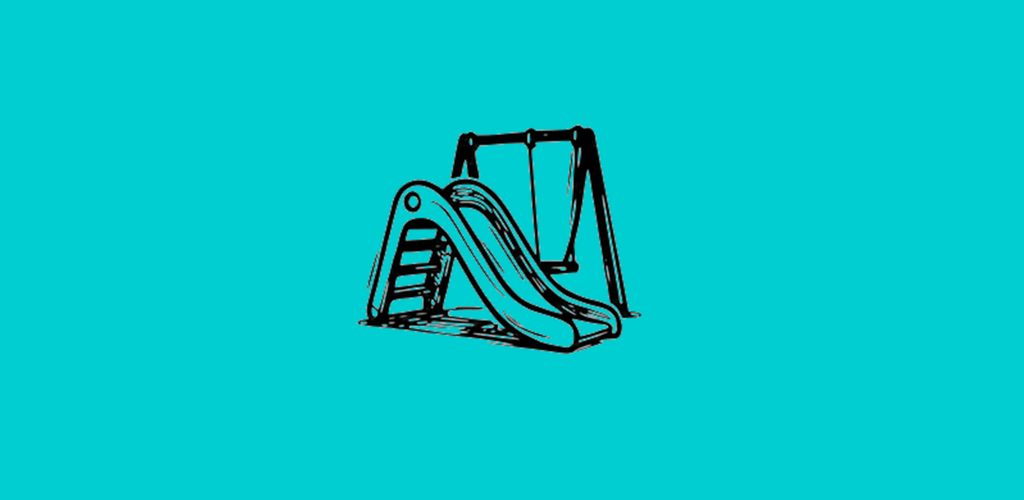
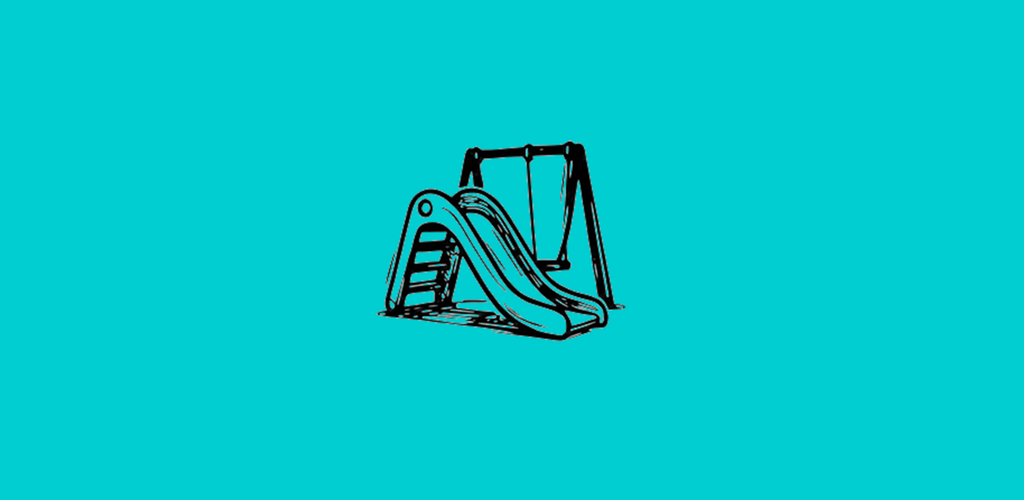
Udpating advertising screen and security

Changed region(s): [[0.3438, 0.24, 0.625, 0.72]]

diff --git a/server/scripts/syncWebsiteAppIcon.js b/server/scripts/syncWebsiteAppIcon.js
@@ -1,12 +1,14 @@
 /**
  * Syncs web brand assets under `website/public/` from:
- * 1) **`branding/android-launcher-res/drawable/*_1024.png`** (preferred) — composites foreground
- *    over background, then exports 512×512 — matches the shipped Android icon pack.
- * 2) Fallback: legacy `playSpotterLogo.png` / `playPlaceIcon.svg` / mipmap, etc.
+ * 1) `branding/android-launcher-res/drawable/*_1024.png` (preferred)
+ * 2) fallback legacy Play Spotter logo files
  *
- * After changing `branding/android-launcher-res/`, run `npm run apply:android-branding` (from `server/`).
+ * Outputs:
+ * - `playplace-app-icon.png`: square app-style icon for marketing surfaces
+ * - `play-spotter-favicon.png`: transparent foreground mark for favicon/nav usage
  *
- * Run: npm run sync:web-brand-icon  (from `server/`)
+ * After changing `branding/android-launcher-res/`, run:
+ *   npm run apply:android-branding
  */
 
 const fs = require('fs');
@@ -20,10 +22,8 @@ const RES = path.join(REPO_ROOT, 'compose-app', 'composeApp', 'src', 'androidMai
 const BRANDING_RES = path.join(REPO_ROOT, 'branding', 'android-launcher-res');
 const FG1024 = path.join(BRANDING_RES, 'drawable', 'ic_launcher_foreground_1024.png');
 const BG1024 = path.join(BRANDING_RES, 'drawable', 'ic_launcher_background_1024.png');
-/** Lucht company site `products.html` — must match composited `playplace-app-icon.png` (not a separate export). */
 const LUCHT_PLAY_PLACE_FINDER = path.join(REPO_ROOT, '..', '..', 'lucht-applications', 'icons', 'play-place-finder.png');
-/** Single brand plate for fallbacks; aligned with `values/colors.xml` ic_launcher_background (#00CED1). */
-const BG = { r: 0, g: 206, b: 209 }; // #00CED1
+const BG = { r: 0, g: 206, b: 209 };
 const TRIM_THRESHOLD = 14;
 const BRANDING_FOREGROUND_ZOOM = 3.2;
 
@@ -31,27 +31,50 @@ function hasBranding1024() {
   return fs.existsSync(FG1024) && fs.existsSync(BG1024);
 }
 
-/**
- * Pixels of the in-app / store icon (adaptive layers combined), at `size`×`size`.
- */
-async function buildBrandingAppIconPngBuffer(size) {
+function getBrandingCrop() {
   const cropSide = Math.max(64, Math.round(1024 / BRANDING_FOREGROUND_ZOOM));
   const left = Math.max(0, Math.round((1024 - cropSide) / 2));
   const top = Math.max(0, Math.round((1024 - cropSide) / 2));
+  return { left, top, cropSide };
+}
+
+async function buildBrandingAppIconPngBuffer(size) {
+  const { left, top, cropSide } = getBrandingCrop();
   const fgBuf = await sharp(FG1024)
     .ensureAlpha()
     .extract({ left, top, width: cropSide, height: cropSide })
     .resize(1024, 1024, { fit: 'fill' })
     .png()
     .toBuffer();
+
   const body = await sharp(BG1024)
     .ensureAlpha()
-    .composite([
-      { input: fgBuf, left: 0, top: 0 },
-    ])
+    .composite([{ input: fgBuf, left: 0, top: 0 }])
     .png()
     .toBuffer();
+
   return sharp(body).resize(size, size, { fit: 'fill' }).png().toBuffer();
+}
+
+async function buildBrandingForegroundMarkBuffer(size) {
+  const { left, top, cropSide } = getBrandingCrop();
+  const innerSize = Math.round(size * 0.82);
+  return sharp(FG1024)
+    .ensureAlpha()
+    .extract({ left, top, width: cropSide, height: cropSide })
+    .resize(innerSize, innerSize, {
+      fit: 'contain',
+      background: { r: 0, g: 0, b: 0, alpha: 0 },
+    })
+    .extend({
+      top: Math.floor((size - innerSize) / 2),
+      bottom: Math.ceil((size - innerSize) / 2),
+      left: Math.floor((size - innerSize) / 2),
+      right: Math.ceil((size - innerSize) / 2),
+      background: { r: 0, g: 0, b: 0, alpha: 0 },
+    })
+    .png()
+    .toBuffer();
 }
 
 function pickFullLogoPath() {
@@ -63,9 +86,11 @@ function pickFullLogoPath() {
     path.join(REPO_ROOT, 'playPlaceIcon.jpg'),
     path.join(RES, 'ic_launcher.png'),
   ];
-  for (const p of candidates) {
-    if (fs.existsSync(p)) return p;
+
+  for (const candidate of candidates) {
+    if (fs.existsSync(candidate)) return candidate;
   }
+
   return null;
 }
 
@@ -77,25 +102,25 @@ function pickFaviconSourcePath() {
     path.join(REPO_ROOT, 'playSpotterLogo.png'),
     path.join(RES, 'ic_launcher.png'),
   ];
-  for (const p of candidates) {
-    if (fs.existsSync(p)) return p;
+
+  for (const candidate of candidates) {
+    if (fs.existsSync(candidate)) return candidate;
   }
+
   return null;
 }
 
-/** Exported for `generateAppIcon.js` — strips uniform border so art can scale up on brand plate. */
 async function rasterAfterTrim(sourcePath) {
   try {
     const buf = await sharp(sourcePath).trim({ threshold: TRIM_THRESHOLD }).png().toBuffer();
-    const m = await sharp(buf).metadata();
-    if ((m.width || 0) < 12 || (m.height || 0) < 12) return sharp(sourcePath);
+    const meta = await sharp(buf).metadata();
+    if ((meta.width || 0) < 12 || (meta.height || 0) < 12) return sharp(sourcePath);
     return sharp(buf);
   } catch {
     return sharp(sourcePath);
   }
 }
 
-/** Full lockup: letterbox on brand teal (no crop of wordmark). */
 async function writeFullLockupSquare(outPath, sourcePath, size) {
   const isVectorSource = path.extname(sourcePath).toLowerCase() === '.svg';
   if (isVectorSource) {
@@ -106,15 +131,13 @@ async function writeFullLockupSquare(outPath, sourcePath, size) {
     await sharp(plate).composite([{ input: inner, gravity: 'centre' }]).png().toFile(outPath);
     return;
   }
+
   await sharp(sourcePath)
     .resize(size, size, { fit: 'contain', background: BG })
     .png()
     .toFile(outPath);
 }
 
-/**
- * Icon-only / favicon: trim flat border color, then scale art up on brand plate.
- */
 async function writeLauncherStyleSquare(outPath, sourcePath, size) {
   const isVectorSource = path.extname(sourcePath).toLowerCase() === '.svg';
   const zoomSide = Math.ceil(size * 1.14);
@@ -126,6 +149,7 @@ async function writeLauncherStyleSquare(outPath, sourcePath, size) {
       .toFile(outPath);
     return;
   }
+
   const body = await rasterAfterTrim(sourcePath);
   await body
     .resize(zoomSide, zoomSide, { fit: 'inside', background: BG })
@@ -141,7 +165,7 @@ function copyPlayIconToLuchtMarketing() {
     if (!fs.existsSync(dir)) return;
     fs.copyFileSync(OUT_FULL, LUCHT_PLAY_PLACE_FINDER);
     console.log(
-      'syncWebsiteAppIcon: copied composited icon →',
+      'syncWebsiteAppIcon: copied composited icon ->',
       path.relative(REPO_ROOT, LUCHT_PLAY_PLACE_FINDER),
     );
   } catch (err) {
@@ -153,16 +177,16 @@ async function main() {
   const size = 512;
 
   if (hasBranding1024()) {
-    const iconBuf = await buildBrandingAppIconPngBuffer(size);
-    await fs.promises.writeFile(OUT_FULL, iconBuf);
-    await fs.promises.writeFile(OUT_FAVICON, iconBuf);
+    const appIconBuf = await buildBrandingAppIconPngBuffer(size);
+    const markBuf = await buildBrandingForegroundMarkBuffer(size);
+    await fs.promises.writeFile(OUT_FULL, appIconBuf);
+    await fs.promises.writeFile(OUT_FAVICON, markBuf);
     console.log(
       'syncWebsiteAppIcon: wrote',
       path.relative(REPO_ROOT, OUT_FULL),
       'and',
       path.relative(REPO_ROOT, OUT_FAVICON),
-      'from',
-      'branding/android-launcher-res (1024×1024 layers)',
+      'from branding/android-launcher-res (adaptive icon + transparent mark)',
     );
     copyPlayIconToLuchtMarketing();
     return;
@@ -204,6 +228,7 @@ module.exports = {
   rasterAfterTrim,
   hasBranding1024,
   buildBrandingAppIconPngBuffer,
+  buildBrandingForegroundMarkBuffer,
   BRANDING_RES,
   FG1024,
   BG1024,

diff --git a/compose-app/composeApp/src/commonMain/kotlin/org/community/playgroundfinder/ui/screens/advertising/AdvertiserDashboardScreen.kt b/compose-app/composeApp/src/commonMain/kotlin/org/community/playgroundfinder/ui/screens/advertising/AdvertiserDashboardScreen.kt
@@ -236,6 +236,22 @@ fun AdvertiserDashboardScreen(
 
     LaunchedEffect(Unit) { loadCampaigns() }
 
+    // Deep link from the menu: open with this campaign expanded (analytics load when expanded).
+    LaunchedEffect(soloCampaignId, campaigns) {
+        val want = soloCampaignId?.trim()?.takeIf { it.isNotEmpty() }
+        if (want == null) {
+            expandedCampaignId = null
+            return@LaunchedEffect
+        }
+        if (campaigns.isEmpty()) return@LaunchedEffect
+        if (campaigns.any { it._id == want }) {
+            expandedCampaignId = want
+            if (!analyticsData.containsKey(want) && want !in analyticsLoading) {
+                loadAnalytics(want)
+            }
+        }
+    }
+
     LaunchedEffect(externalReloadNonce) {
         if (externalReloadNonce <= 0) return@LaunchedEffect
         loadCampaigns()
@@ -534,12 +550,16 @@ fun AdvertiserDashboardScreen(
                         Text("+ Create New Ad", fontWeight = FontWeight.SemiBold)
                     }
                     Spacer(Modifier.height(8.dp))
-                    TextButton(onClick = { openExternalUrl(MarketingLinks.advertiserLanding()) }) {
-                        Text("Placements & pricing (website)", color = FormColors.PrimaryButton)
-                    }
-                    Spacer(Modifier.height(4.dp))
-                    TextButton(onClick = { openExternalUrl(MarketingLinks.advertiserHub()) }) {
-                        Text("Full analytics & tools (browser)", color = FormColors.PrimaryButton)
+                    Button(
+                        onClick = { openExternalUrl(MarketingLinks.advertiserHub()) },
+                        modifier = Modifier.fillMaxWidth(0.7f).height(44.dp),
+                        shape = RoundedCornerShape(12.dp),
+                        colors = ButtonDefaults.buttonColors(
+                            containerColor = Color(0xFF424242),
+                            contentColor = Color.White,
+                        ),
+                    ) {
+                        Text("Website — pricing & full analytics", fontWeight = FontWeight.SemiBold, fontSize = 13.sp)
                     }
                     Spacer(Modifier.height(8.dp))
                     TextButton(onClick = { loadCampaigns() }) { Text("Refresh", color = FormColors.PrimaryButton) }
@@ -562,17 +582,22 @@ fun AdvertiserDashboardScreen(
                             ) {
                                 Text("+ Create New Ad", fontWeight = FontWeight.SemiBold)
                             }
-                            TextButton(
-                                onClick = { openExternalUrl(MarketingLinks.advertiserLanding()) },
-                                modifier = Modifier.fillMaxWidth(),
-                            ) {
-                                Text("Placements & pricing (website)", color = FormColors.PrimaryButton)
-                            }
-                            TextButton(
+                            Button(
                                 onClick = { openExternalUrl(MarketingLinks.advertiserHub()) },
-                                modifier = Modifier.fillMaxWidth(),
+                                modifier = Modifier
+                                    .fillMaxWidth()
+                                    .height(44.dp),
+                                shape = RoundedCornerShape(12.dp),
+                                colors = ButtonDefaults.buttonColors(
+                                    containerColor = Color(0xFF424242),
+                                    contentColor = Color.White,
+                                ),
                             ) {
-                                Text("Full analytics & tools (browser)", color = FormColors.PrimaryButton)
+                                Text(
+                                    "Website — pricing & full analytics",
+                                    fontWeight = FontWeight.SemiBold,
+                                    fontSize = 13.sp,
+                                )
                             }
                         }
                     }

diff --git a/compose-app/composeApp/src/commonMain/kotlin/org/community/playgroundfinder/ui/screens/home/HomeScreen.kt b/compose-app/composeApp/src/commonMain/kotlin/org/community/playgroundfinder/ui/screens/home/HomeScreen.kt
@@ -2334,14 +2334,15 @@ fun HomeScreen(
                     userLat = userLat,
                     userLng = userLng,
                 )
-                /* Extra air above the soft promo strip so the event "Add to calendar" CTA does not read as one block with it. */
+                /* Extra air above the promo strip so the event "Add to calendar" CTA does not read as one block with it. */
                 Spacer(Modifier.height(18.dp))
                 Surface(
                     modifier = Modifier
                         .fillMaxWidth()
                         .clickable { onNavigateToAdvertise() },
                     shape = RoundedCornerShape(12.dp),
-                    color = Color(0xFFE8F8FA),
+                    color = Color(0xFF424242),
+                    shadowElevation = 2.dp,
                 ) {
                     Row(
                         modifier = Modifier
@@ -2353,19 +2354,19 @@ fun HomeScreen(
                         Column(modifier = Modifier.weight(1f), verticalArrangement = Arrangement.spacedBy(2.dp)) {
                             Text(
                                 adPromoVariant.first,
-                                color = Color(0xFF006064),
+                                color = Color.White,
                                 fontSize = 14.sp,
                                 fontWeight = FontWeight.SemiBold,
                             )
                             Text(
                                 adPromoVariant.second,
-                                color = Color(0xFF455A64),
+                                color = Color.White.copy(alpha = 0.88f),
                                 fontSize = 12.sp,
                             )
                         }
                         Text(
                             "Learn more",
-                            color = FormColors.PrimaryButton,
+                            color = Color.White,
                             fontSize = 12.sp,
                             fontWeight = FontWeight.Bold,
                             modifier = Modifier.padding(start = 10.dp),
